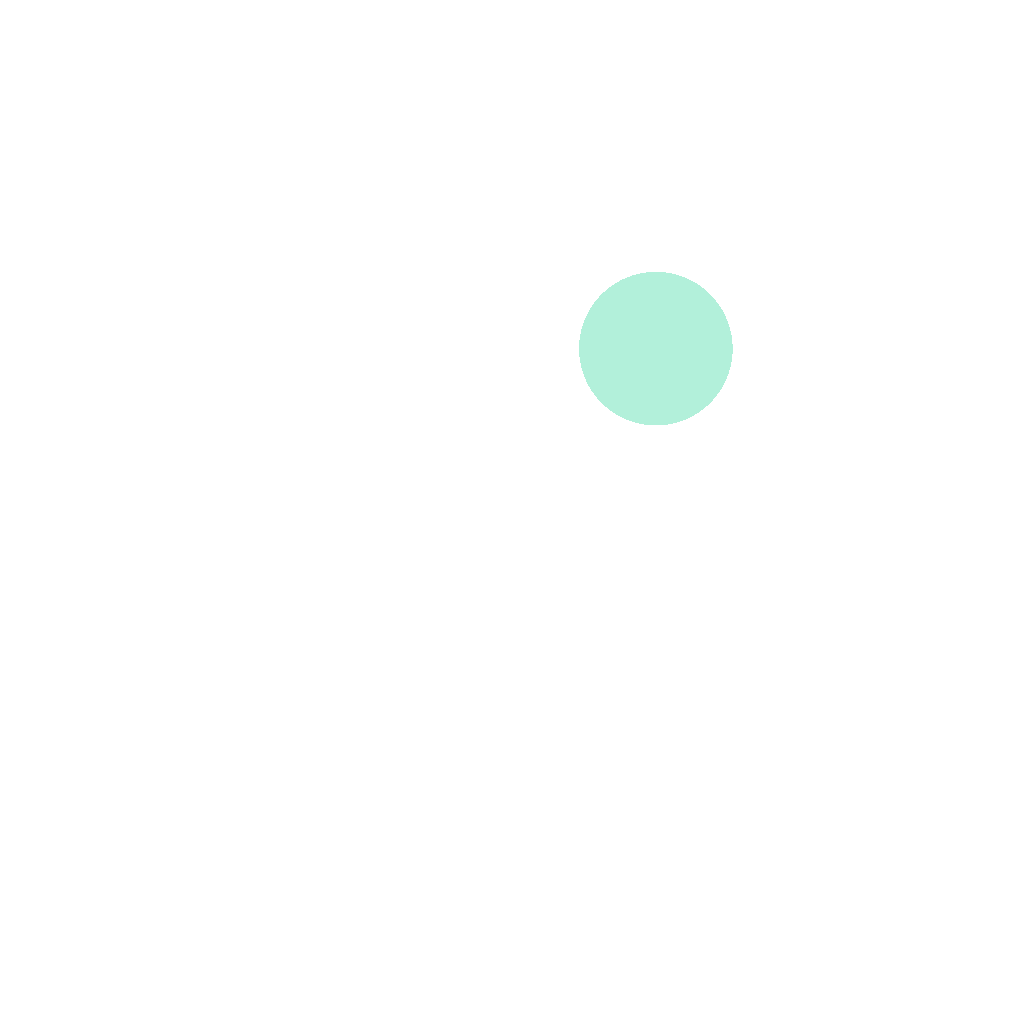
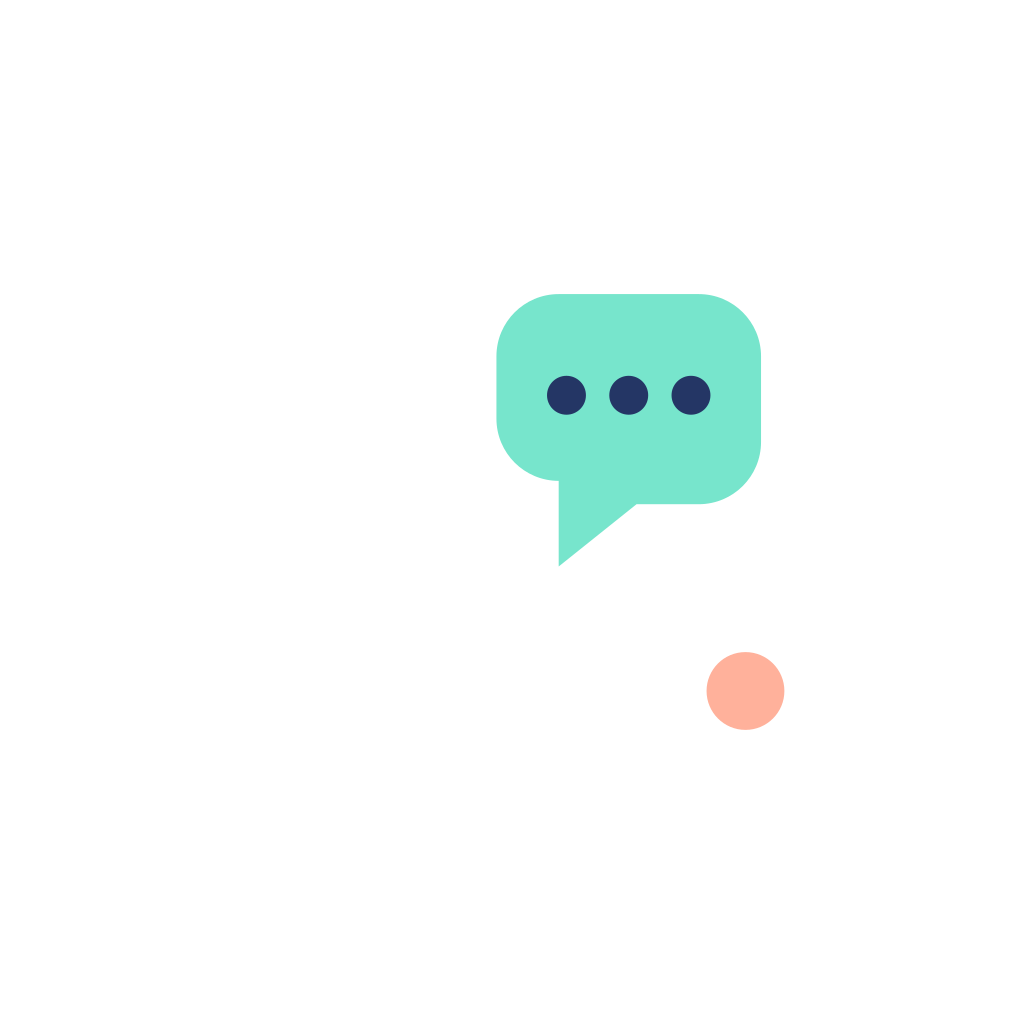
Refresh Lauda colors and speech-bubble brand mark

Changed region(s): [[0.4688, 0.25, 0.75, 0.5625], [0.6875, 0.625, 0.7812, 0.7188]]

diff --git a/src/app/(tabs)/insights.tsx b/src/app/(tabs)/insights.tsx
@@ -3,6 +3,7 @@ import { Text, View, Pressable, StyleSheet, useWindowDimensions } from "react-na
 import { Ionicons } from "@expo/vector-icons";
 import { router } from "expo-router";
 import { Page, Card, Heading, Body, Muted, Button, colors } from "../../components/ui";
+import { categoryColors } from "../../components/theme";
 import { Hero, Stars, Avatar } from "../../components/studio";
 import { useStore } from "../../state/store";
 import { ideasFor } from "../../ai/ideas";
@@ -28,7 +29,7 @@ export default function Insights() {
   <View style={s.segment}>{[{id:"categories",title:"Review categories"},{id:"ideas",title:"Suggested improvements"}].map(tab=><Pressable key={tab.id} accessibilityRole="tab" accessibilityState={{selected:view===tab.id}} aria-selected={view===tab.id} onPress={()=>setView(tab.id)} style={[s.segmentItem,view===tab.id&&s.segmentActive]}><Text style={[s.segmentText,view===tab.id&&{color:colors.ink}]}>{tab.title}</Text></Pressable>)}</View>
   {view==="categories"?<>
    <View style={s.sectionHead}><View style={{flex:1}}><Heading>Explore by category</Heading><Muted>Select a category to see the actual feedback.</Muted></View><Text style={s.smallLabel}>{categories.length} CATEGORIES</Text></View>
-   <View style={s.grid}>{categories.map(item=><Pressable key={item.id} accessibilityRole="button" accessibilityLabel={`${item.title}: ${item.reviews.length} reviews`} accessibilityState={{selected:selected===item.id}} onPress={()=>setSelected(item.id)} style={[s.category, {flexBasis:width>=800?"30%":"45%"},selected===item.id&&s.selectedCategory]}><View style={s.categoryTop}><View style={[s.icon,selected===item.id&&{backgroundColor:colors.accent}]}><Ionicons name={item.icon} size={21} color={selected===item.id?"white":colors.accent}/></View><Text style={s.categoryCount}>{item.reviews.length}</Text></View><Text style={s.categoryTitle}>{item.title}</Text><Text style={s.categoryCaption}>{item.reviews.length?"View feedback →":"No feedback yet"}</Text></Pressable>)}</View>
+   <View style={s.grid}>{categories.map((item,index)=><Pressable key={item.id} accessibilityRole="button" accessibilityLabel={`${item.title}: ${item.reviews.length} reviews`} accessibilityState={{selected:selected===item.id}} onPress={()=>setSelected(item.id)} style={[s.category, {flexBasis:width>=800?"30%":"45%"},selected===item.id&&s.selectedCategory,{backgroundColor:categoryColors[index%categoryColors.length].bg,borderColor:selected===item.id?categoryColors[index%categoryColors.length].ink:colors.line}]}><View style={s.categoryTop}><View style={[s.icon,{backgroundColor:"white"},selected===item.id&&{backgroundColor:categoryColors[index%categoryColors.length].ink}]}><Ionicons name={item.icon} size={21} color={selected===item.id?"white":categoryColors[index%categoryColors.length].ink}/></View><Text style={s.categoryCount}>{item.reviews.length}</Text></View><Text style={s.categoryTitle}>{item.title}</Text><Text style={s.categoryCaption}>{item.reviews.length?"View feedback →":"No feedback yet"}</Text></Pressable>)}</View>
    <Card><View style={s.sectionHead}><View style={{flex:1}}><Text style={s.smallLabel}>SELECTED CATEGORY</Text><Heading>{category.title}</Heading></View><Ionicons name={category.icon} size={30} color={colors.accent}/></View><Body>{category.description}</Body><Muted>{category.reviews.length} matching reviews. A review can appear in more than one category. Counts reflect mentions, not quality scores.</Muted></Card>
    {category.reviews.slice(0,5).map(review=><Card key={review.id} onPress={()=>router.push(`/reviews/${review.id}`)}><View style={s.sectionHead}><Avatar name={review.guest}/><View style={{flex:1}}><Heading>{review.guest}</Heading><Muted>{review.language} · {review.date}</Muted></View><Stars rating={review.rating}/></View><Body>{review.canonicalEnglish??review.text}</Body><View style={s.sectionHead}><Text style={s.categoryCaption}>{reviewState(review,data.reviewReplies)==="new"?"Awaiting your response":"Response recorded"}</Text><Ionicons name="arrow-forward" size={20} color={colors.accent}/></View></Card>)}
    {!category.reviews.length&&<Card><Heading>No matching feedback yet</Heading><Body>There are no comments about {category.title.toLowerCase()} in this workspace. This does not indicate a positive or negative result.</Body></Card>}

diff --git a/src/app/(tabs)/index.tsx b/src/app/(tabs)/index.tsx
@@ -17,10 +17,10 @@ export default function Home() {
  return <Page title={profile.ownerName?`Hi, ${profile.ownerName}`:"Your workspace"} subtitle={profile.name}>
   <Hero eyebrow="YOUR BUSINESS WORKSPACE" title={"A better experience\nstarts with listening."}><Text style={{color:"#E8DFF9",fontSize:15,lineHeight:23}}>Your reviews and plans stay together, wherever the day takes you.</Text><Button label="Open your review desk →" onPress={()=>router.navigate("/reviews")}/></Hero>
   {demo && <Badge label="Noor’s Coffee Farm · Demo workspace"/>}
-  <View style={{flexDirection:"row",gap:12}}>{[{label:"Reviews to reply to",value:unanswered.length,href:"/reviews",icon:"chatbox-ellipses-outline"},{label:"Pending bookings",value:pending,href:"/bookings",icon:"calendar-outline"}].map(item=><View key={item.label} style={{flex:1}}><Card onPress={()=>router.navigate(item.href as "/reviews"|"/bookings")}><Ionicons name={item.icon as "calendar-outline"} color={colors.accent} size={22}/><Text style={{fontSize:30,fontWeight:"700",color:colors.ink}}>{item.value}</Text><Muted>{item.label}</Muted></Card></View>)}</View>
+  <View style={{flexDirection:"row",gap:12}}>{[{label:"Reviews to reply to",value:unanswered.length,href:"/reviews",icon:"chatbox-ellipses-outline"},{label:"Pending bookings",value:pending,href:"/bookings",icon:"calendar-outline"}].map(item=><View key={item.label} style={{flex:1}}><Card tone={item.href==="/reviews"?"peach":"mint"} onPress={()=>router.navigate(item.href as "/reviews"|"/bookings")}><Ionicons name={item.icon as "calendar-outline"} color={colors.accent} size={22}/><Text style={{fontSize:30,fontWeight:"700",color:colors.ink}}>{item.value}</Text><Muted>{item.label}</Muted></Card></View>)}</View>
   <Heading>Next review to answer</Heading>
   {unanswered[0]?<Card onPress={()=>router.push(`/reviews/${unanswered[0].id}`)}><View style={{flexDirection:"row",gap:12,alignItems:"center"}}><Avatar name={unanswered[0].guest}/><View style={{flex:1}}><Heading>{unanswered[0].guest}</Heading><Muted>{unanswered[0].language} · Waiting for a reply</Muted></View></View><Body>{unanswered[0].canonicalEnglish ?? unanswered[0].text}</Body><Muted>Read in your language and respond →</Muted></Card>:<Card><Heading>You’re caught up</Heading><Body>Review your saved responses or explore what visitors value.</Body></Card>}
-  <Card onPress={()=>router.navigate("/insights")}><Badge label="FROM FEEDBACK TO OPPORTUNITY"/><Heading>Review your visitor insights</Heading><Body>See recurring praise, recurring friction, and small experiments worth testing.</Body><Muted>Explore Insights →</Muted></Card>
+  <Card tone="lavender" onPress={()=>router.navigate("/insights")}><Badge label="FROM FEEDBACK TO OPPORTUNITY"/><Heading>Review your visitor insights</Heading><Body>See recurring praise, recurring friction, and small experiments worth testing.</Body><Muted>Explore Insights →</Muted></Card>
   <Heading>Today’s plan</Heading>
   {bookings.length?bookings.map(b=><Card key={b.id} onPress={()=>router.push(`/bookings/${b.id}`)}><Badge label={`${b.time} · ${b.status}`}/><Heading>{b.guest}</Heading><Muted>{b.guests} participants{b.demo?" · Sample booking":""}</Muted></Card>):<Card><Heading>No visits scheduled today</Heading><Body>No bookings recorded for today.</Body><Button secondary label="Record a booking" onPress={()=>router.push("/bookings/new")}/></Card>}
   <Muted>Saved on this device · {demo?"Sample workspace":"Your business workspace"}. Custom translation requires your connected laptop.</Muted>

diff --git a/src/components/ui.tsx b/src/components/ui.tsx
@@ -1,6 +1,7 @@
 import React from "react";
 import {
   ActivityIndicator,
+  Image,
   Pressable,
   ScrollView,
   StyleSheet,
@@ -90,69 +91,28 @@ export function Page({
 }
 export function Logo({ large = false }: { large?: boolean }) {
   const size = large ? 76 : 34;
-  return (
-    <View
-      accessibilityLabel="Lauda logo"
-      style={{
-        width: size,
-        height: size,
-        borderRadius: size * 0.27,
-        backgroundColor: colors.accent,
-      }}
-    >
-      <View
-        style={{
-          position: "absolute",
-          left: size * 0.3,
-          top: size * 0.25,
-          width: size * 0.12,
-          height: size * 0.45,
-          backgroundColor: "white",
-          borderRadius: 2,
-        }}
-      />
-      <View
-        style={{
-          position: "absolute",
-          left: size * 0.3,
-          top: size * 0.58,
-          width: size * 0.4,
-          height: size * 0.12,
-          backgroundColor: "white",
-          borderRadius: 2,
-        }}
-      />
-      <View
-        style={{
-          position: "absolute",
-          left: size * 0.59,
-          top: size * 0.26,
-          width: size * 0.15,
-          height: size * 0.15,
-          borderRadius: size,
-          backgroundColor: "#B2F0DA",
-        }}
-      />
-    </View>
-  );
+  return <Image accessible accessibilityLabel="Lauda logo" source={require("../../assets/lauda-icon.png")} resizeMode="contain" style={{ width: size, height: size, borderRadius: size * .25 }} />;
 }
+
 export function Card({
   children,
   onPress,
+  tone,
 }: {
   children: React.ReactNode;
   onPress?: () => void;
+  tone?: "mint" | "peach" | "sky" | "rose" | "lavender";
 }) {
   return onPress ? (
     <Pressable
       accessibilityRole="button"
       onPress={onPress}
-      style={({ pressed }) => [s.card, pressed && { opacity: 0.7 }]}
+      style={({ pressed }) => [s.card, tone && { backgroundColor: colors[tone] }, pressed && { opacity: 0.7 }]}
     >
       {children}
     </Pressable>
   ) : (
-    <View style={s.card}>{children}</View>
+    <View style={[s.card, tone && { backgroundColor: colors[tone] }]}>{children}</View>
   );
 }
 export function Heading({ children }: { children: React.ReactNode }) {

diff --git a/src/components/bottom-navigation.tsx b/src/components/bottom-navigation.tsx
@@ -3,7 +3,7 @@ import { Ionicons } from "@expo/vector-icons";
 import { router, usePathname } from "expo-router";
 import { useSafeAreaInsets } from "react-native-safe-area-context";
 import { useStore } from "../state/store";
-import { colors } from "./theme";
+import { categoryColors, colors } from "./theme";
 const tabs = [
   { label: "Home", href: "/", icon: "home-outline", activeIcon: "home" },
   { label: "Reviews", href: "/reviews", icon: "chatbox-ellipses-outline", activeIcon: "chatbox-ellipses" },
@@ -35,7 +35,7 @@ export function BottomNavigation() {
         accessibilityLabel="Main navigation"
         style={styles.row}
       >
-        {tabs.map((tab) => {
+        {tabs.map((tab, index) => {
           const selected =
             tab.href === "/"
               ? pathname === "/"
@@ -53,7 +53,7 @@ export function BottomNavigation() {
               }}
               style={({ pressed }) => [
                 styles.tab,
-                selected && styles.active,
+                selected && {backgroundColor:categoryColors[index].bg},
                 pressed && { opacity: 0.7 },
               ]}
             >
@@ -61,7 +61,7 @@ export function BottomNavigation() {
                 <Ionicons
                   name={selected ? tab.activeIcon : tab.icon}
                   size={24}
-                  color={selected ? colors.accent : colors.muted}
+                  color={selected ? categoryColors[index].ink : colors.muted}
                 />
                 {tab.label === "Reviews" && unanswered > 0 && (
                   <View style={styles.count}>
@@ -74,7 +74,7 @@ export function BottomNavigation() {
               <Text
                 style={[
                   styles.label,
-                  selected && { color: colors.accent, fontWeight: "700" },
+                  selected && { color: categoryColors[index].ink, fontWeight: "700" },
                 ]}
               >
                 {tab.label}

diff --git a/src/components/studio.tsx b/src/components/studio.tsx
@@ -41,8 +41,8 @@ const styles = StyleSheet.create({
   hero: { padding: 24, gap: 12, borderRadius: 22, backgroundColor: colors.navy, overflow: "hidden" },
   eyebrow: { color: "#B7EBDB", fontWeight: "700", fontSize: 11, letterSpacing: 1.7 },
   title: { color: "white", fontWeight: "700", fontSize: 28, lineHeight: 34, letterSpacing: -0.7, maxWidth: 480 },
-  orbit: { position: "absolute", width: 190, height: 190, borderRadius: 95, borderWidth: 1, borderColor: "#527090", right: -95, top: -75 },
-  orbitSmall: { position: "absolute", width: 70, height: 70, borderRadius: 35, backgroundColor: "#3E6489", right: 32, bottom: -38 },
+  orbit: { position: "absolute", width: 190, height: 190, borderRadius: 95, borderWidth: 18, borderColor: "#6951A6", right: -95, top: -75 },
+  orbitSmall: { position: "absolute", width: 70, height: 70, borderRadius: 35, backgroundColor: "#EFA17F", right: 24, bottom: -40 },
   chips: { flexDirection: "row", flexWrap: "wrap", gap: 8 },
   chip: { paddingVertical: 12, paddingHorizontal: 16, backgroundColor: "white", borderRadius: 24, borderWidth: 1, borderColor: colors.line },
   chipActive: { backgroundColor: colors.accent, borderColor: colors.accent },

diff --git a/src/components/theme.ts b/src/components/theme.ts
@@ -1,12 +1,24 @@
 export const colors = {
-  bg: "#F3F5F7",
+  bg: "#F7F5FC",
   ink: "#182534",
   muted: "#647183",
-  accent: "#4263D5",
+  accent: "#6545CF",
   line: "#E2E7EE",
   amber: "#94601E",
   teal: "#087D78",
   coral: "#C85848",
-  navy: "#142A43",
-  lavender: "#EDF1FF",
+  navy: "#38276D",
+  lavender: "#EFE9FF",
+  mint: "#E1F6EE",
+  peach: "#FFF0E7",
+  sky: "#E7F1FF",
+  rose: "#FCEBF3",
 };
+export const categoryColors = [
+ { ink: "#6545CF", bg: "#F0EAFF" },
+ { ink: "#997018", bg: "#FFF5DB" },
+ { ink: "#087D78", bg: "#E1F6EE" },
+ { ink: "#B64E56", bg: "#FCEBF3" },
+ { ink: "#3369B2", bg: "#E7F1FF" },
+ { ink: "#B15A32", bg: "#FFF0E7" },
+] as const;
